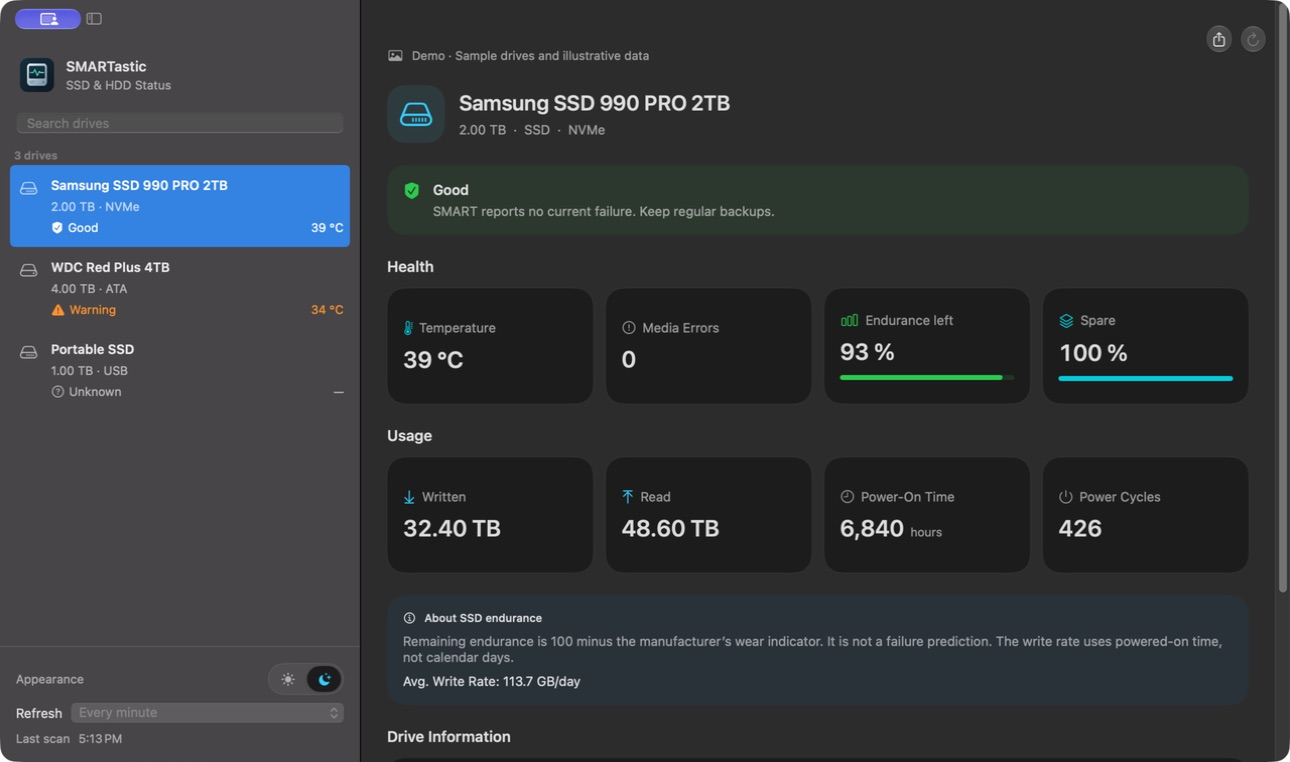
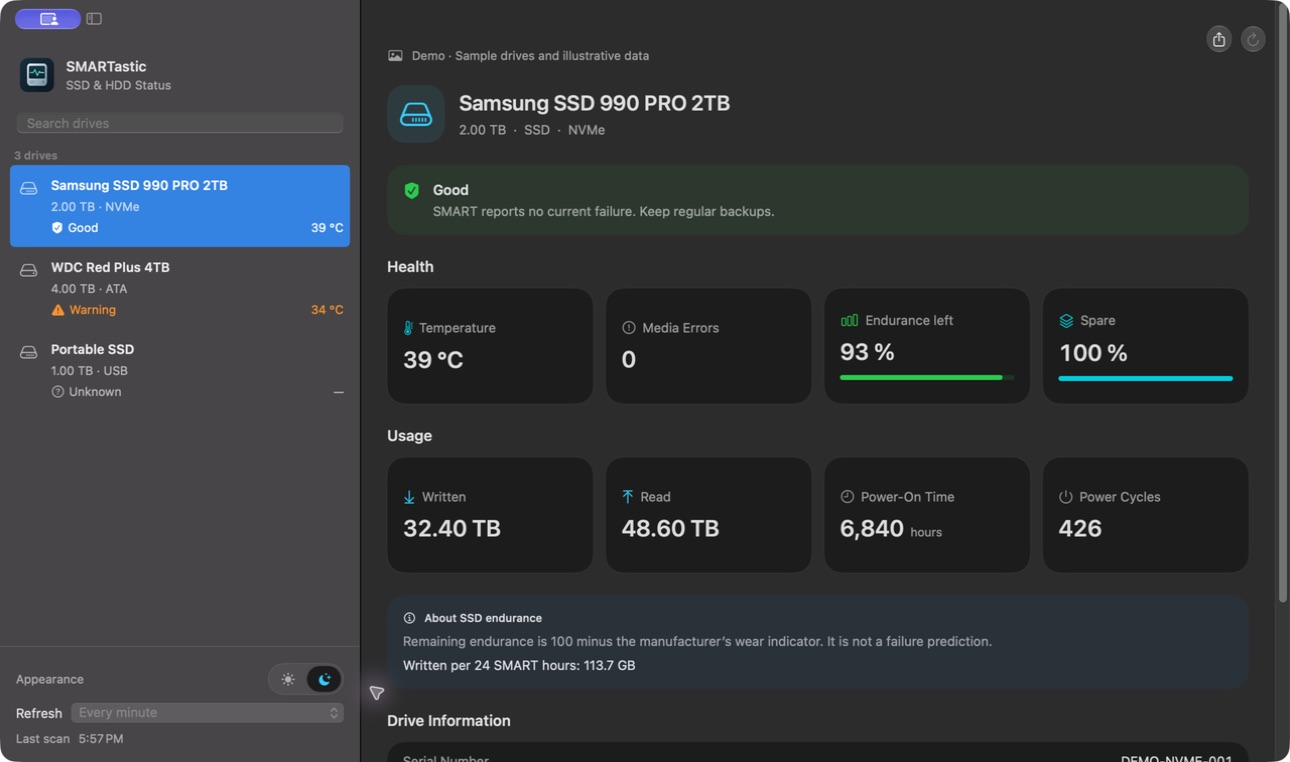
Clarify write volume per reported SMART operating hours

diff --git a/Sources/SMARTastic/Views/DiskDetailView.swift b/Sources/SMARTastic/Views/DiskDetailView.swift
@@ -32,6 +32,7 @@ struct DiskDetailView: View {
                             MetricTile(label: loc("metric.written"), value: metric(disk.dataWrittenTB, suffix: " TB", decimals: 2), icon: "arrow.down.to.line", color: .cyan)
                             MetricTile(label: loc("metric.read"), value: metric(disk.dataReadTB, suffix: " TB", decimals: 2), icon: "arrow.up.to.line", color: .cyan)
                             MetricTile(label: loc("metric.power_on_time"), value: metric(disk.powerOnHours), icon: "clock", detail: loc("metric.power_on_detail"))
+                                .help(loc("power_on.help"))
                             MetricTile(label: loc("metric.power_cycles"), value: metric(disk.powerCycles), icon: "power")
                         }
                     }
@@ -39,8 +40,10 @@ struct DiskDetailView: View {
                         VStack(alignment: .leading, spacing: 8) {
                             Label(loc("endurance.title"), systemImage: "info.circle").font(.subheadline.weight(.medium))
                             Text(loc("endurance.explanation")).font(.system(size: 13)).foregroundStyle(.secondary)
-                            if let daily = disk.dailyWriteGB {
-                                Text(loc("detail.avg_write_rate") + ": " + metric(daily, suffix: " " + loc("metric.per_day"), decimals: 1)).font(.system(size: 13))
+                            if let volume = disk.writtenGBPer24PowerOnHours {
+                                Text(loc("detail.written_per_smart_day") + ": " + metric(volume, suffix: " GB", decimals: 1))
+                                    .font(.system(size: 13))
+                                    .help(loc("detail.written_per_smart_day.help"))
                             }
                         }.padding(16).frame(maxWidth: .infinity, alignment: .leading).background(.blue.opacity(0.06), in: RoundedRectangle(cornerRadius: 18))
                     }

diff --git a/Tests/SMARTasticTests/SmartParserTests.swift b/Tests/SMARTasticTests/SmartParserTests.swift
@@ -10,6 +10,7 @@ final class SmartParserTests: XCTestCase {
         XCTAssertEqual(disk.dataWrittenTB!, 1.024, accuracy: 0.000001)
         XCTAssertEqual(disk.dataReadTB!, 2.048, accuracy: 0.000001)
         XCTAssertEqual(disk.size, "2.00 TB")
+        XCTAssertEqual(try XCTUnwrap(disk.writtenGBPer24PowerOnHours), 24.576, accuracy: 0.000001)
         XCTAssertEqual(disk.temperature, 39)
         XCTAssertEqual(disk.health, .healthy)
         XCTAssertNotNil(disk.diagnostic)
@@ -45,6 +46,7 @@ final class SmartParserTests: XCTestCase {
         XCTAssertNil(disk.temperature)
         XCTAssertNil(disk.mediaErrors)
         XCTAssertNil(disk.remainingEndurance)
+        XCTAssertNil(disk.writtenGBPer24PowerOnHours)
     }
     func testMissingSerialsHaveSeparateDeviceIdentities() throws {
         XCTAssertNotEqual(try parse("{}", device: "/dev/disk21").id, try parse("{}", device: "/dev/disk22").id)
@@ -53,7 +55,8 @@ final class SmartParserTests: XCTestCase {
         let disk = try parse(#"{"nvme_smart_health_information_log":{"percentage_used":255,"power_on_hours":0,"data_units_written":0}}"#)
         XCTAssertEqual(disk.remainingEndurance, 0)
         XCTAssertEqual(disk.health, .critical)
-        XCTAssertNil(disk.dailyWriteGB)
+        XCTAssertEqual(disk.powerOnHours, 0)
+        XCTAssertNil(disk.writtenGBPer24PowerOnHours)
     }
     func testInvalidAndBooleanMetrics() throws {
         XCTAssertThrowsError(try parse("not json"))

diff --git a/Sources/SMARTastic/Models/SmartData.swift b/Sources/SMARTastic/Models/SmartData.swift
@@ -66,9 +66,10 @@ struct DiskInfo: Identifiable, Hashable, Codable {
     }
     var healthColor: Color { health.color }
     var remainingEndurance: Double? { percentageUsed.map { max(0, 100 - $0) } }
-    var dailyWriteGB: Double? {
+    /// Lifetime write volume normalized to 24 drive-reported hours, not calendar time.
+    var writtenGBPer24PowerOnHours: Double? {
         guard let hours = powerOnHours, hours > 0, let written = dataWrittenTB else { return nil }
-        return written * 1000 / (Double(hours) / 24)
+        return written * 1000 / Double(hours) * 24
     }
     var tempColor: Color {
         guard let temperature else { return .secondary }

diff --git a/docs/REVIEW-1.1.0.md b/docs/REVIEW-1.1.0.md
@@ -23,6 +23,7 @@ concrete findings were checked against code, tests and, where available, hardwar
 | R8 | During the overhaul, blindly adding ATA attribute 198 treated Host_Reads_GiB on some healthy SSDs as errors. | Use smartctl's named attribute semantics. Regression test covers the vendor read counter; confirmed against smartmontools' drive database. |
 | R9 | Packaging copied debug output and put resources at the bundle root; there was no trusted release signature. | Versioned release build, embedded Resources bundle resolver, Universal binary, Developer ID signing with Hardened Runtime and timestamp. Both architectures checked. |
 | R10 | The initial release workflow could not resume after Apple timeout or a later tap failure. | Restore the same submission and original build number; recover executable modes from submission ZIP. Existing public releases are matched to the exact source commit, verified and continued at the tap step. |
+| R11 | Lifetime written bytes divided by SMART power-on hours and multiplied by 24 was labelled GB/day. NVMe power-on hours can exclude low-power states, making a calendar-day interpretation misleading. | Retained the normalized volume with the explicit label “Written per 24 SMART hours” and explanatory tooltips. Tests verify the normalization and unavailable/zero-hour cases. A true calendar-day average requires timestamped counter differences. Field semantics checked against the [libnvme SMART log documentation](https://manpages.debian.org/testing/libnvme-dev/nvme_smart_log.2.en.html). |
 
 ## UI and documentation corrections
 

diff --git a/README.md b/README.md
@@ -82,10 +82,13 @@ reported reallocated, pending and offline-uncorrectable counters; categories can
 overlap and are not a count of distinct failing sectors.
 
 **Remaining rated endurance is not a lifespan prediction.** It is 100 minus the
-manufacturer's wear indicator, clamped at zero. The average write rate is based
-on powered-on time rather than calendar days. The previous calendar lifespan
-forecast and arbitrary HDD health percentage have been removed because they
-suggested more certainty than SMART provides.
+manufacturer's wear indicator, clamped at zero. SMART power-on hours can exclude
+low-power states. “Written per 24 SMART hours” divides lifetime written bytes by
+the drive-reported power-on hours and normalizes to 24 hours. It is not necessarily
+a calendar-day average and is not the current write speed. A measured calendar-day
+average would require counter differences between timestamped observations.
+The calendar lifespan forecast and arbitrary HDD health percentage were removed
+because they suggested more certainty than SMART provides. See the [NVMe SMART log field definitions](https://manpages.debian.org/testing/libnvme-dev/nvme_smart_log.2.en.html).
 
 A good SMART result cannot rule out a sudden failure. Keep backups regardless of
 the displayed status. SMARTastic makes no network requests; reports are saved
